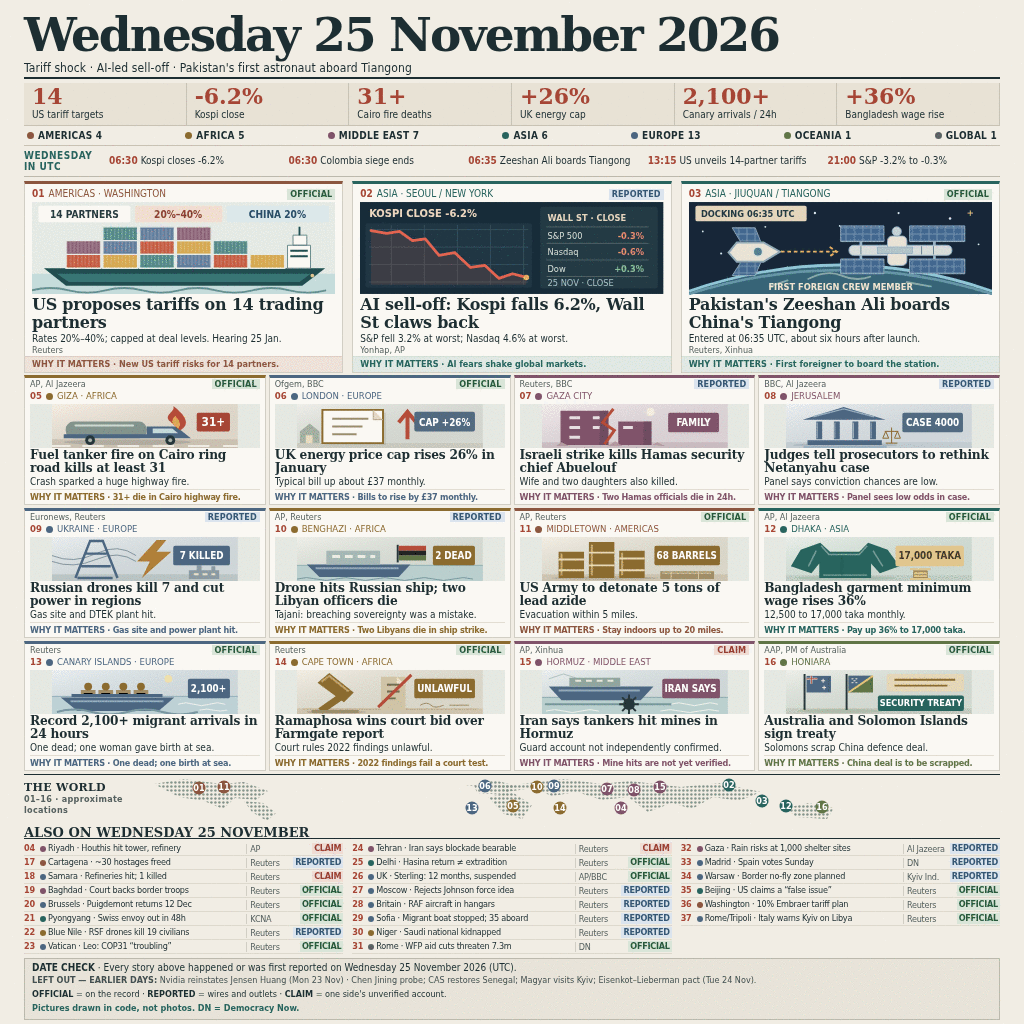
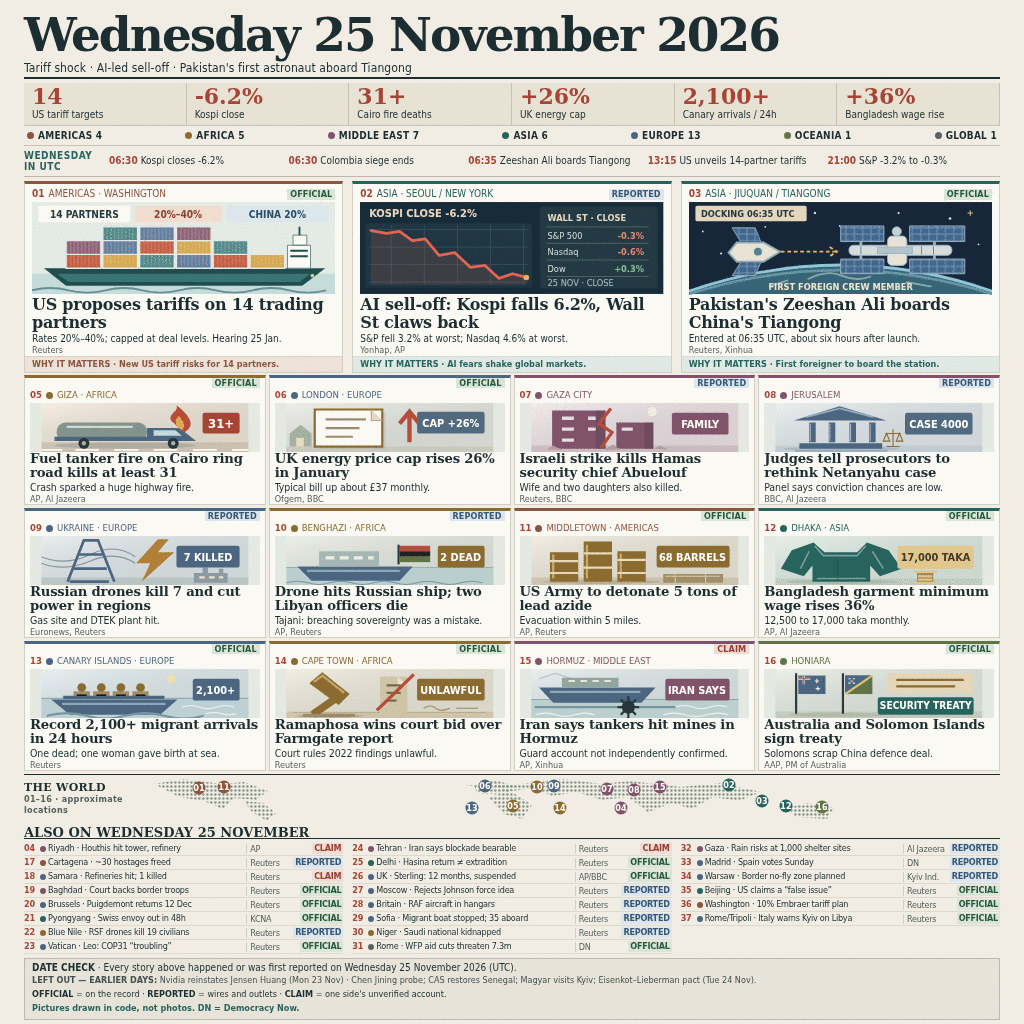
v7: v5 proportions with refined illustrations and numbering

Changed region(s): [[0.0312, 0.3438, 0.9688, 0.75]]

diff --git a/tools/entry.html b/tools/entry.html
@@ -291,14 +291,14 @@
 
       .mid-card {
         display: grid;
-        grid-template-rows: 24px 44px 26px 12px 15px;
-        gap: 1px;
-        padding: 1px 5px 0;
+        grid-template-rows: 24px 49px 28px 13px 10px;
+        gap: .5px;
+        padding: 0 5px;
       }
 
       .mid-card .card-meta {
         display: grid;
-        grid-template-columns: minmax(0, 1fr) auto;
+        grid-template-columns: minmax(0, 1fr);
         grid-template-rows: 10px 12px;
         row-gap: 1px;
         padding-bottom: 1px;
@@ -318,16 +318,8 @@
         margin-right: 0;
       }
 
-      .mid-card .card-meta > .source {
-        grid-column: 1;
-        grid-row: 1;
-        color: var(--muted);
-        font-size: 9px;
-        line-height: 10px;
-      }
-
       .mid-card .card-meta > .badge {
-        grid-column: 2;
+        grid-column: 1;
         grid-row: 1;
         justify-self: end;
         line-height: 10px;
@@ -336,33 +328,31 @@
       .mid-art {
         display: block;
         width: 100%;
-        height: 44px;
+        height: 49px;
         background: #e5e9e2;
       }
 
       .mid-card h2 {
         overflow: hidden;
         margin: 0;
-        font: 700 12.2px/13px 'DejaVu Serif', serif;
+        font: 700 13.2px/14px 'DejaVu Serif', serif;
         letter-spacing: -.2px;
       }
 
       .mid-card .summary {
         overflow: hidden;
         margin: 0;
-        font-size: 10px;
-        line-height: 12px;
+        font-size: 10.5px;
+        line-height: 13px;
+        letter-spacing: -.1px;
+        white-space: nowrap;
       }
 
-      .mid-why {
+      .mid-card > .source {
         margin: 0;
-        padding-top: 2px;
-        border-top: 1px solid #e2ddd2;
-        color: var(--region);
+        color: var(--muted);
         font-size: 9px;
-        font-weight: 700;
-        line-height: 11px;
-        letter-spacing: -.25px;
+        line-height: 10px;
         white-space: nowrap;
       }
 
@@ -636,7 +626,7 @@
       <section class="mid" aria-label="Twelve illustrated mid-tier stories">
         <div class="mid-row">
           <article class="card mid-card africa" data-story="5">
-            <div class="card-meta"><span><b class="story-no">05</b><i class="dot"></i>GIZA · AFRICA</span><span class="source">AP, Al Jazeera</span><span class="badge official">OFFICIAL</span></div>
+            <div class="card-meta"><span><b class="story-no">05</b><i class="dot"></i>GIZA · AFRICA</span><span class="badge official">OFFICIAL</span></div>
             <svg class="mid-art" viewBox="0 0 190 45" role="img" aria-label="Burning tanker truck">
               <defs><linearGradient id="banner-light" x1="0" y1="0" x2="1" y2="1"><stop stop-color="#fff" stop-opacity=".32"/><stop offset="1" stop-color="#243c43" stop-opacity=".08"/></linearGradient></defs>
               <rect width="190" height="45" fill="#f2e6d6"/>
@@ -657,11 +647,11 @@
             </svg>
             <h2>Fuel tanker fire on Cairo ring road kills at least 31</h2>
             <p class="summary">Crash sparked a huge highway fire.</p>
-            <p class="mid-why">WHY IT MATTERS · 31+ die in Cairo highway fire.</p>
+            <div class="source">AP, Al Jazeera</div>
           </article>
 
           <article class="card mid-card europe" data-story="6">
-            <div class="card-meta"><span><b class="story-no">06</b><i class="dot"></i>LONDON · EUROPE</span><span class="source">Ofgem, BBC</span><span class="badge official">OFFICIAL</span></div>
+            <div class="card-meta"><span><b class="story-no">06</b><i class="dot"></i>LONDON · EUROPE</span><span class="badge official">OFFICIAL</span></div>
             <svg class="mid-art" viewBox="0 0 190 45" role="img" aria-label="Energy bill rising">
               <rect width="190" height="45" fill="#e7e7df"/>
               <rect width="190" height="45" fill="url(#banner-light)"/>
@@ -677,11 +667,11 @@
             </svg>
             <h2>UK energy price cap rises 26% in January</h2>
             <p class="summary">Typical bill up about £37 monthly.</p>
-            <p class="mid-why">WHY IT MATTERS · Bills to rise by £37 monthly.</p>
+            <div class="source">Ofgem, BBC</div>
           </article>
 
           <article class="card mid-card middle-east" data-story="7">
-            <div class="card-meta"><span><b class="story-no">07</b><i class="dot"></i>GAZA CITY</span><span class="source">Reuters, BBC</span><span class="badge reported">REPORTED</span></div>
+            <div class="card-meta"><span><b class="story-no">07</b><i class="dot"></i>GAZA CITY</span><span class="badge reported">REPORTED</span></div>
             <svg class="mid-art" viewBox="0 0 190 45" role="img" aria-label="Damaged apartment building">
               <rect width="190" height="45" fill="#eee1e4"/>
               <rect width="190" height="45" fill="url(#banner-light)"/>
@@ -697,13 +687,13 @@
             </svg>
             <h2>Israeli strike kills Hamas security chief Abuelouf</h2>
             <p class="summary">Wife and two daughters also killed.</p>
-            <p class="mid-why">WHY IT MATTERS · Two Hamas officials die in 24h.</p>
+            <div class="source">Reuters, BBC</div>
           </article>
         </div>
 
         <div class="mid-row">
           <article class="card mid-card middle-east" data-story="8">
-            <div class="card-meta"><span><b class="story-no">08</b><i class="dot"></i>JERUSALEM</span><span class="source">BBC, Al Jazeera</span><span class="badge reported">REPORTED</span></div>
+            <div class="card-meta"><span><b class="story-no">08</b><i class="dot"></i>JERUSALEM</span><span class="badge reported">REPORTED</span></div>
             <svg class="mid-art" viewBox="0 0 190 45" role="img" aria-label="Courthouse columns">
               <rect width="190" height="45" fill="#e3e8eb"/>
               <rect width="190" height="45" fill="url(#banner-light)"/>
@@ -719,11 +709,11 @@
             </svg>
             <h2>Judges tell prosecutors to rethink Netanyahu case</h2>
             <p class="summary">Panel says conviction chances are low.</p>
-            <p class="mid-why">WHY IT MATTERS · Panel sees low odds in case.</p>
+            <div class="source">BBC, Al Jazeera</div>
           </article>
 
           <article class="card mid-card europe" data-story="9">
-            <div class="card-meta"><span><b class="story-no">09</b><i class="dot"></i>UKRAINE · EUROPE</span><span class="source">Euronews, Reuters</span><span class="badge reported">REPORTED</span></div>
+            <div class="card-meta"><span><b class="story-no">09</b><i class="dot"></i>UKRAINE · EUROPE</span><span class="badge reported">REPORTED</span></div>
             <svg class="mid-art" viewBox="0 0 190 45" role="img" aria-label="Power pylon, energy symbol and distant power plant">
               <rect width="190" height="45" fill="#e1e7e9"/>
               <rect width="190" height="45" fill="url(#banner-light)"/>
@@ -738,11 +728,11 @@
             </svg>
             <h2>Russian drones kill 7 and cut power in regions</h2>
             <p class="summary">Gas site and DTEK plant hit.</p>
-            <p class="mid-why">WHY IT MATTERS · Gas site and power plant hit.</p>
+            <div class="source">Euronews, Reuters</div>
           </article>
 
           <article class="card mid-card africa" data-story="10">
-            <div class="card-meta"><span><b class="story-no">10</b><i class="dot"></i>BENGHAZI · AFRICA</span><span class="source">AP, Reuters</span><span class="badge reported">REPORTED</span></div>
+            <div class="card-meta"><span><b class="story-no">10</b><i class="dot"></i>BENGHAZI · AFRICA</span><span class="badge reported">REPORTED</span></div>
             <svg class="mid-art" viewBox="0 0 190 45" role="img" aria-label="Ship and Libyan flag">
               <rect width="190" height="45" fill="#e7e9df"/>
               <rect width="190" height="45" fill="url(#banner-light)"/>
@@ -760,11 +750,11 @@
             </svg>
             <h2>Drone hits Russian ship; two Libyan officers die</h2>
             <p class="summary">Tajani: breaching sovereignty was a mistake.</p>
-            <p class="mid-why">WHY IT MATTERS · Two Libyans die in ship strike.</p>
+            <div class="source">AP, Reuters</div>
           </article>
 
           <article class="card mid-card americas" data-story="11">
-            <div class="card-meta"><span><b class="story-no">11</b><i class="dot"></i>MIDDLETOWN · AMERICAS</span><span class="source">AP, Reuters</span><span class="badge official">OFFICIAL</span></div>
+            <div class="card-meta"><span><b class="story-no">11</b><i class="dot"></i>MIDDLETOWN · AMERICAS</span><span class="badge official">OFFICIAL</span></div>
             <svg class="mid-art" viewBox="0 0 190 45" role="img" aria-label="Rows of lead azide barrels">
               <rect width="190" height="45" fill="#eee7d7"/>
               <rect width="190" height="45" fill="url(#banner-light)"/>
@@ -780,13 +770,13 @@
             </svg>
             <h2>US Army to detonate 5 tons of lead azide</h2>
             <p class="summary">Evacuation within 5 miles.</p>
-            <p class="mid-why">WHY IT MATTERS · Stay indoors up to 20 miles.</p>
+            <div class="source">AP, Reuters</div>
           </article>
         </div>
 
         <div class="mid-row">
           <article class="card mid-card asia" data-story="12">
-            <div class="card-meta"><span><b class="story-no">12</b><i class="dot"></i>DHAKA · ASIA</span><span class="source">AP, Al Jazeera</span><span class="badge official">OFFICIAL</span></div>
+            <div class="card-meta"><span><b class="story-no">12</b><i class="dot"></i>DHAKA · ASIA</span><span class="badge official">OFFICIAL</span></div>
             <svg class="mid-art" viewBox="0 0 190 45" role="img" aria-label="Garment with wage tag">
               <rect width="190" height="45" fill="#dfe9df"/>
               <rect width="190" height="45" fill="url(#banner-light)"/>
@@ -801,11 +791,11 @@
             </svg>
             <h2>Bangladesh garment minimum wage rises 36%</h2>
             <p class="summary">12,500 to 17,000 taka monthly.</p>
-            <p class="mid-why">WHY IT MATTERS · Pay up 36% to 17,000 taka.</p>
+            <div class="source">AP, Al Jazeera</div>
           </article>
 
           <article class="card mid-card europe" data-story="13">
-            <div class="card-meta"><span><b class="story-no">13</b><i class="dot"></i>CANARY ISLANDS · EUROPE</span><span class="source">Reuters</span><span class="badge official">OFFICIAL</span></div>
+            <div class="card-meta"><span><b class="story-no">13</b><i class="dot"></i>CANARY ISLANDS · EUROPE</span><span class="badge official">OFFICIAL</span></div>
             <svg class="mid-art" viewBox="0 0 190 45" role="img" aria-label="Crowded migrant boat">
               <rect width="190" height="45" fill="#e0e8eb"/>
               <rect width="190" height="45" fill="url(#banner-light)"/>
@@ -824,11 +814,11 @@
             </svg>
             <h2>Record 2,100+ migrant arrivals in 24 hours</h2>
             <p class="summary">One dead; one woman gave birth at sea.</p>
-            <p class="mid-why">WHY IT MATTERS · One dead; one birth at sea.</p>
+            <div class="source">Reuters</div>
           </article>
 
           <article class="card mid-card africa" data-story="14">
-            <div class="card-meta"><span><b class="story-no">14</b><i class="dot"></i>CAPE TOWN · AFRICA</span><span class="source">Reuters</span><span class="badge official">OFFICIAL</span></div>
+            <div class="card-meta"><span><b class="story-no">14</b><i class="dot"></i>CAPE TOWN · AFRICA</span><span class="badge official">OFFICIAL</span></div>
             <svg class="mid-art" viewBox="0 0 190 45" role="img" aria-label="Gavel and report">
               <rect width="190" height="45" fill="#eee7d7"/>
               <rect width="190" height="45" fill="url(#banner-light)"/>
@@ -849,11 +839,11 @@
             </svg>
             <h2>Ramaphosa wins court bid over Farmgate report</h2>
             <p class="summary">Court rules 2022 findings unlawful.</p>
-            <p class="mid-why">WHY IT MATTERS · 2022 findings fail a court test.</p>
+            <div class="source">Reuters</div>
           </article>
 
           <article class="card mid-card middle-east" data-story="15">
-            <div class="card-meta"><span><b class="story-no">15</b><i class="dot"></i>HORMUZ · MIDDLE EAST</span><span class="source">AP, Xinhua</span><span class="badge claim">CLAIM</span></div>
+            <div class="card-meta"><span><b class="story-no">15</b><i class="dot"></i>HORMUZ · MIDDLE EAST</span><span class="badge claim">CLAIM</span></div>
             <svg class="mid-art" viewBox="0 0 190 45" role="img" aria-label="Oil tanker and sea mine">
               <rect width="190" height="45" fill="#e1e8e8"/>
               <rect width="190" height="45" fill="url(#banner-light)"/>
@@ -873,11 +863,11 @@
             </svg>
             <h2>Iran says tankers hit mines in Hormuz</h2>
             <p class="summary">Guard account not independently confirmed.</p>
-            <p class="mid-why">WHY IT MATTERS · Mine hits are not yet verified.</p>
+            <div class="source">AP, Xinhua</div>
           </article>
 
           <article class="card mid-card oceania" data-story="16">
-            <div class="card-meta"><span><b class="story-no">16</b><i class="dot"></i>HONIARA</span><span class="source">AAP, PM of Australia</span><span class="badge official">OFFICIAL</span></div>
+            <div class="card-meta"><span><b class="story-no">16</b><i class="dot"></i>HONIARA</span><span class="badge official">OFFICIAL</span></div>
             <svg class="mid-art" viewBox="0 0 190 45" role="img" aria-label="Australia and Solomon Islands flags with treaty">
               <rect width="190" height="45" fill="#e5e9df"/>
               <rect width="190" height="45" fill="url(#banner-light)"/>
@@ -900,7 +890,7 @@
             </svg>
             <h2>Australia and Solomon Islands sign treaty</h2>
             <p class="summary">Solomons scrap China defence deal.</p>
-            <p class="mid-why">WHY IT MATTERS · China deal is to be scrapped.</p>
+            <div class="source">AAP, PM of Australia</div>
           </article>
         </div>
       </section>
